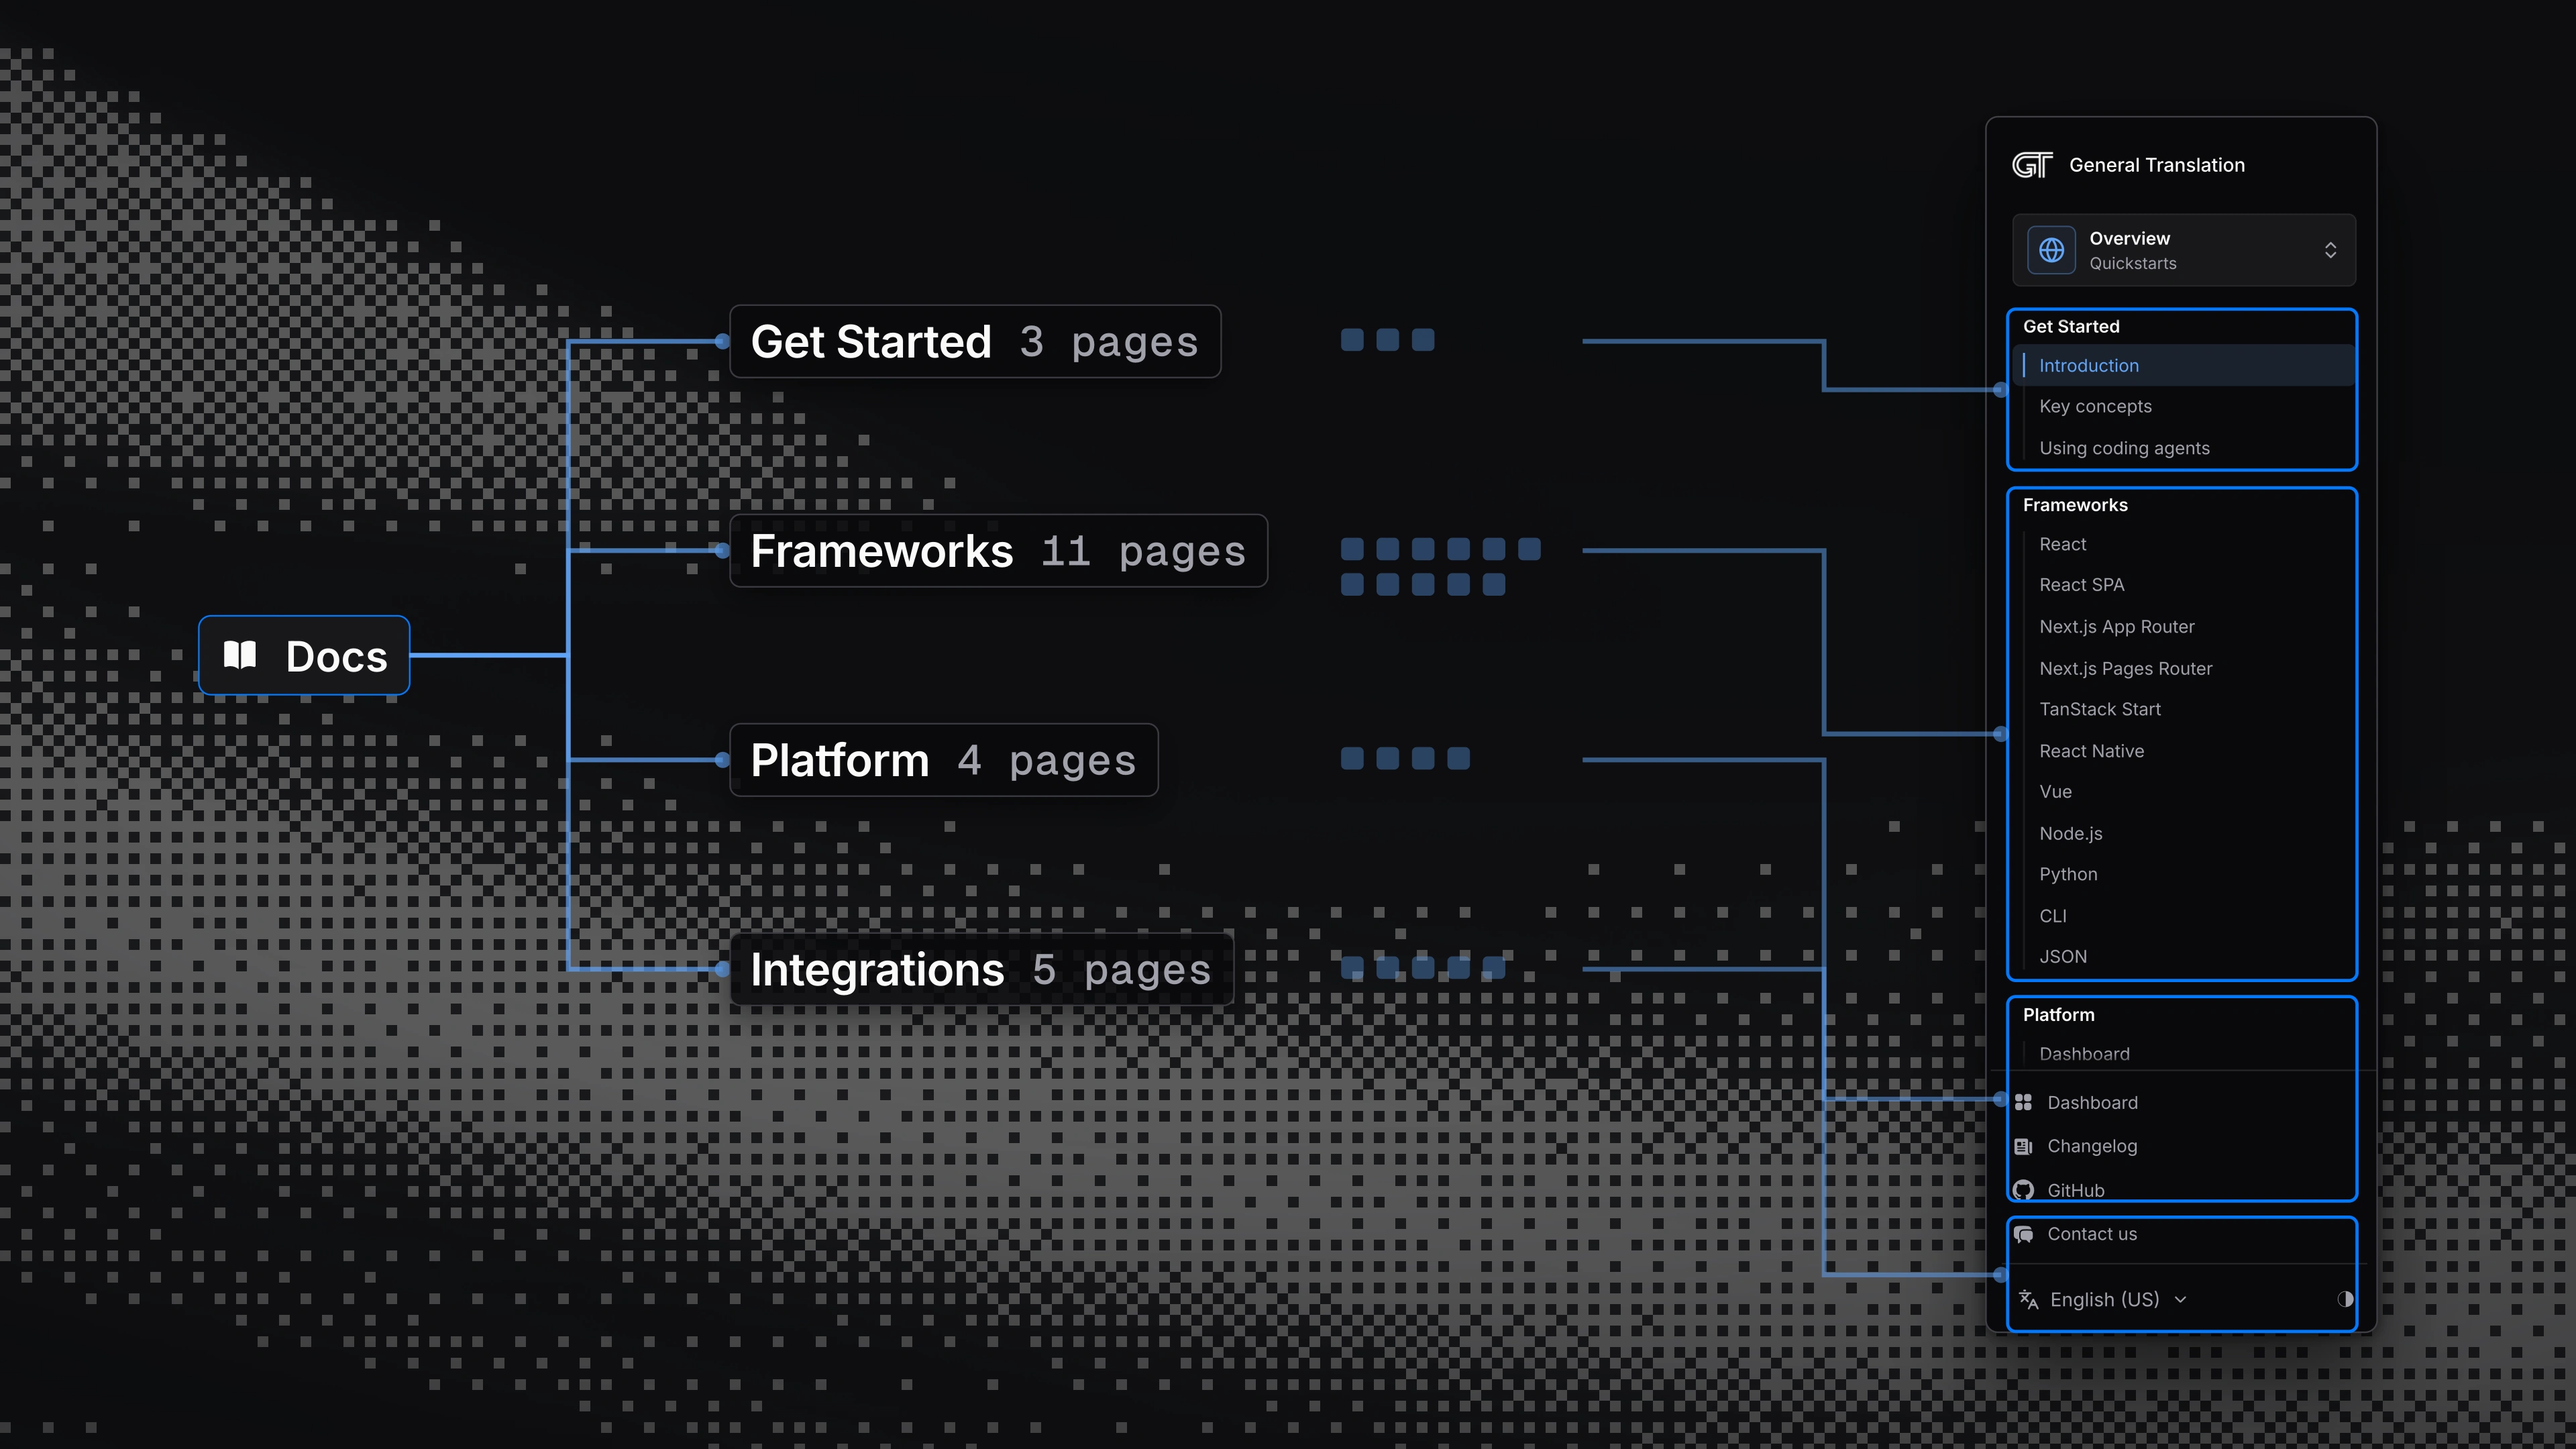
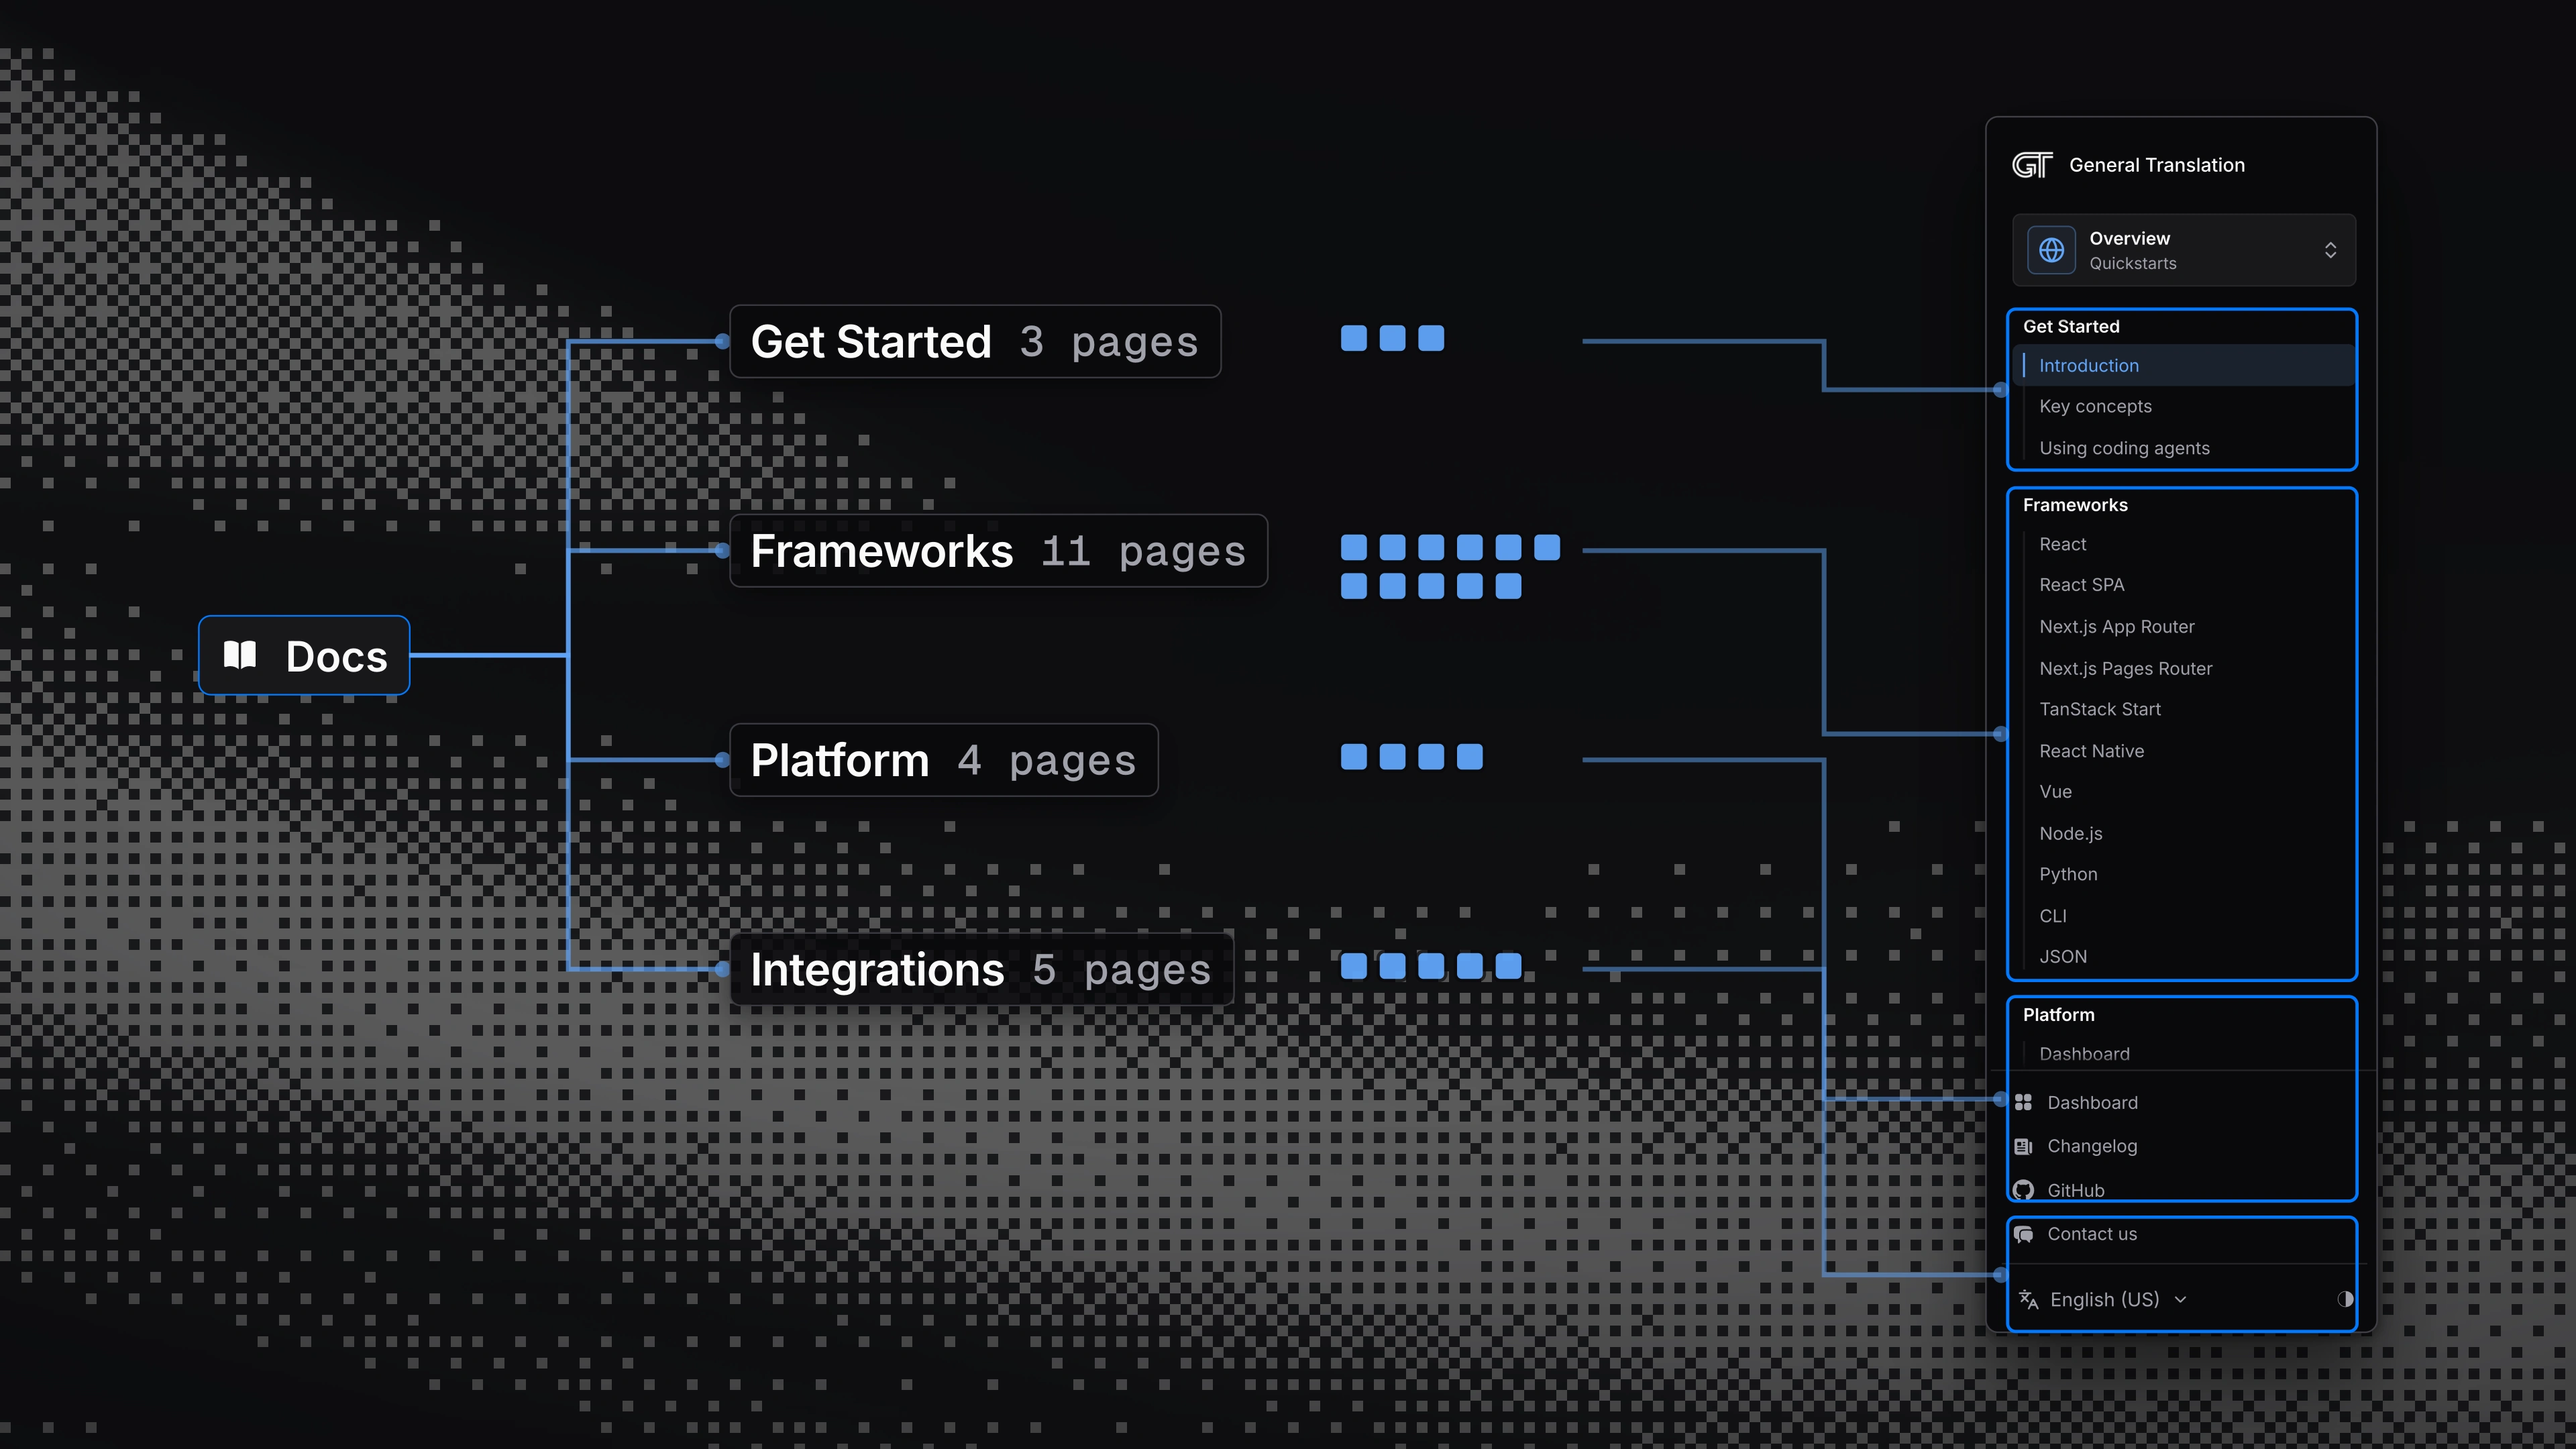
One tree: solid page squares

diff --git a/graphics/build/gen-visuals.js b/graphics/build/gen-visuals.js
@@ -231,7 +231,7 @@ add('C5-one-tree', 'C', 'One tree', 'silk3', 'The sidebar drawn as the tree it i
   let h = ''; const s = 0.84, X = 1200, Y = 72; h += crop('newIntro', N.sidebar, { x: X, y: Y, s }); const o = org(X, Y, { x: 0, y: 0 });
   const groups = [['Get Started', 3, { x: 19, y: 145, w: 254, h: 115 }], ['Frameworks', 11, { x: 19, y: 277, w: 254, h: 360 }], ['Platform', 4, { x: 19, y: 654, w: 254, h: 146 }], ['Integrations', 5, { x: 19, y: 817, w: 254, h: 80 }]];
   const rootX = 150, rootY = 407; /* centred on the four branch lines (212 to 602) so the stub meets the trunk at its middle */ h += `<div class="txt" style="left:${px(rootX - 60)};top:${px(rootY - 25)}"><div class="badge" style="position:static;width:132px;justify-content:center;height:50px;padding:0;font:600 26px 'Inter';border-color:var(--blue);color:var(--text)">${ico('book-open', 24)}&nbsp;Docs</div></div>`;
-  groups.forEach(([k, n, r], i) => { const gy = 200 + i * 130; const gx = 420; h += elbow(rootX - 60 + 132 - 1, rootY, gx - 4, gy + 12, { mx: 320, color: 'rgba(96,165,250,.7)', end: true }); /* the badge is 132 wide from rootX - 60; the branch starts on its edge */ h += label(gx, gy - 11, `${k}&nbsp;<span style="font:500 26px 'Geist Mono';color:var(--muted);letter-spacing:.02em">${n} pages</span>`); for (let j = 0; j < n; j++) h += `<div class="wire bar dim" style="left:${px(gx + 380 + (j % 6) * 22)};top:${px(gy + 4 + Math.floor(j / 6) * 22)};width:14px;height:14px;border-radius:3px;background:rgba(96,165,250,.35)"></div>`; h += hl(o, s, r, { pad: 3, style: 'box-shadow:none;border-width:2.5px' }); h += elbow(gx + 530, gy + 12, X + r.x * s - 6, Y + (r.y + r.h / 2) * s, { mx: 1100, color: 'rgba(96,165,250,.5)', end: true }); });
+  groups.forEach(([k, n, r], i) => { const gy = 200 + i * 130; const gx = 420; h += elbow(rootX - 60 + 132 - 1, rootY, gx - 4, gy + 12, { mx: 320, color: 'rgba(96,165,250,.7)', end: true }); /* the badge is 132 wide from rootX - 60; the branch starts on its edge */ h += label(gx, gy - 11, `${k}&nbsp;<span style="font:500 26px 'Geist Mono';color:var(--muted);letter-spacing:.02em">${n} pages</span>`); for (let j = 0; j < n; j++) h += `<div class="wire bar" style="left:${px(gx + 380 + (j % 6) * 24)};top:${px(gy + 2 + Math.floor(j / 6) * 24)};width:16px;height:16px;border-radius:3px;background:rgba(96,165,250,.95);box-shadow:0 0 0 2px rgba(9,9,11,.7)"></div>`; h += hl(o, s, r, { pad: 3, style: 'box-shadow:none;border-width:2.5px' }); h += elbow(gx + 530, gy + 12, X + r.x * s - 6, Y + (r.y + r.h / 2) * s, { mx: 1100, color: 'rgba(96,165,250,.5)', end: true }); });
   return h;
 });
 
